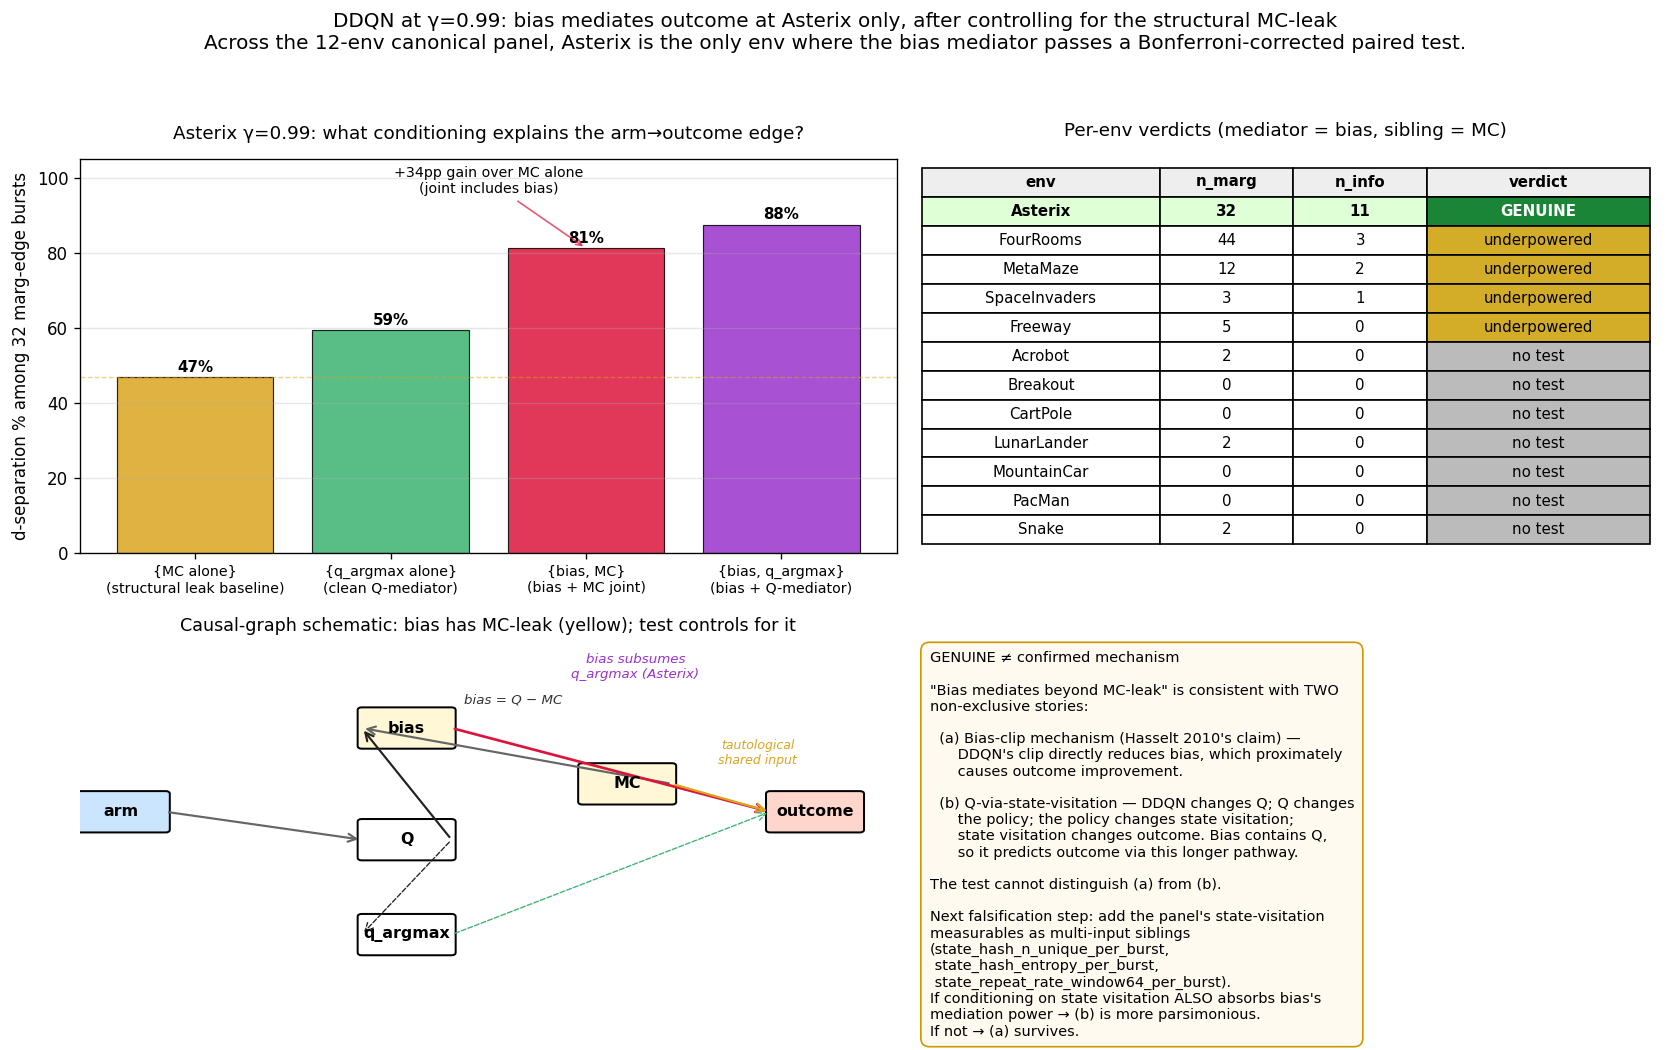
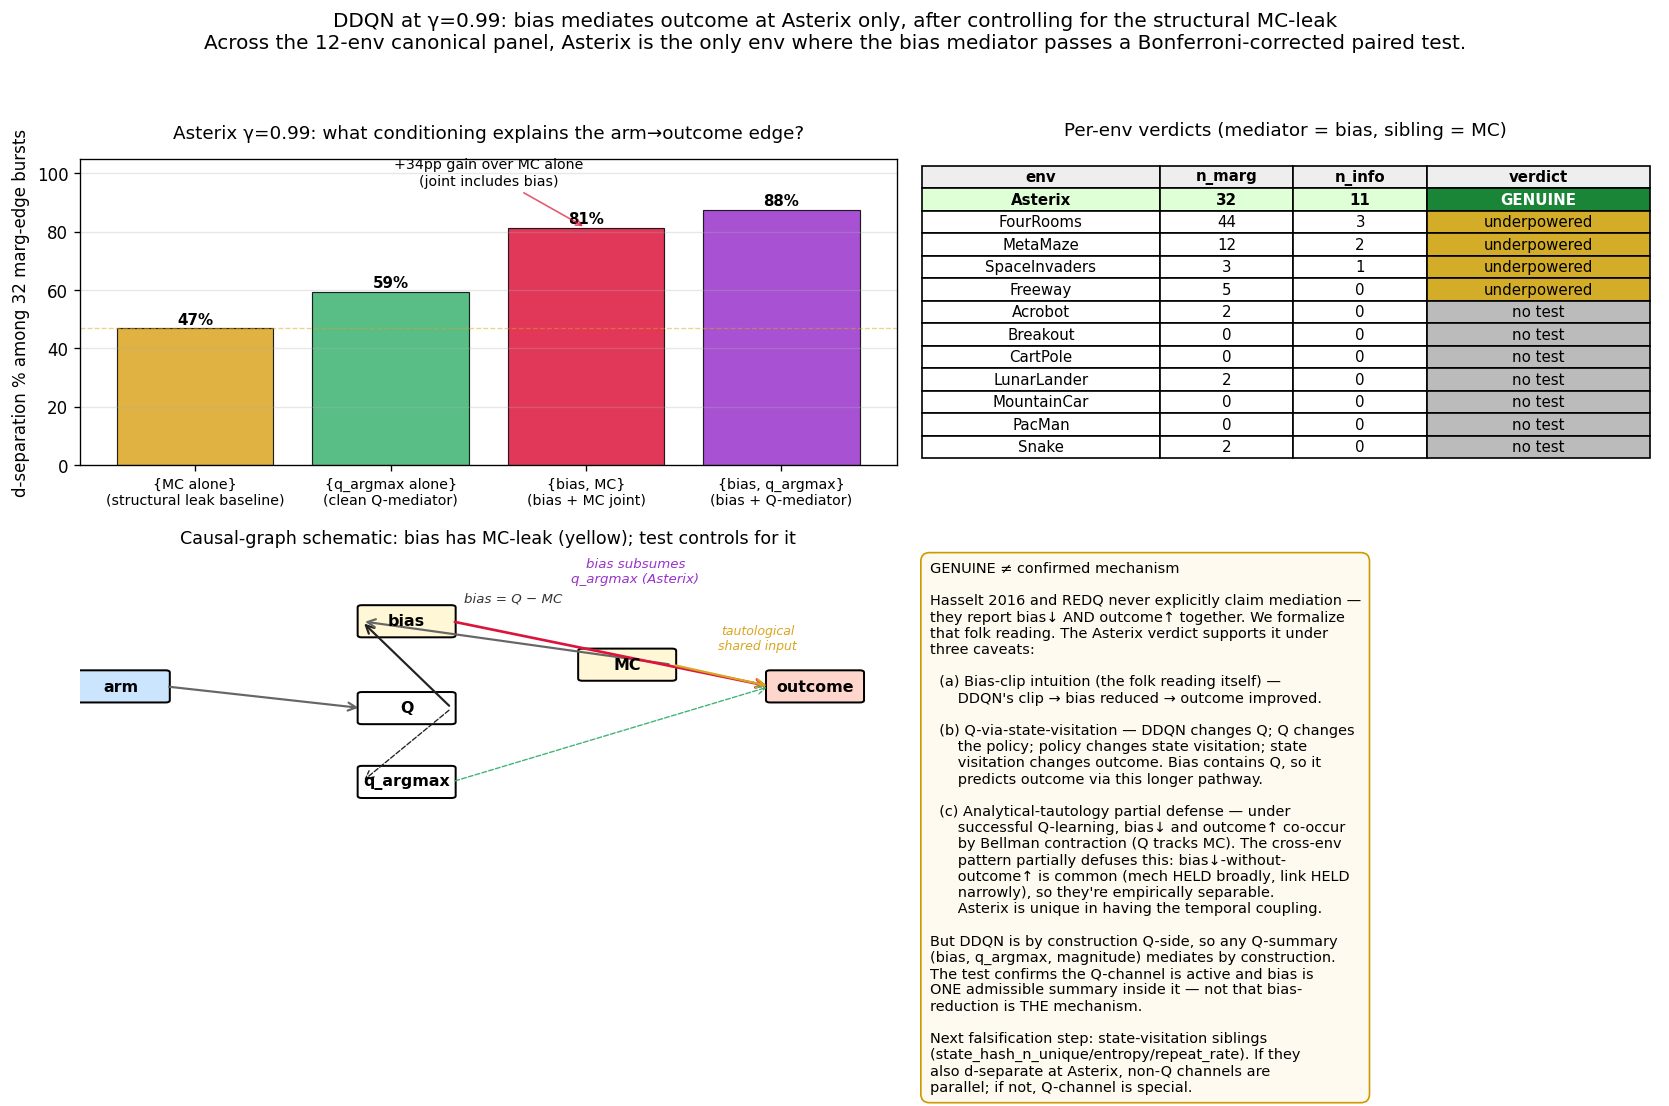
papers/g099_mediation: figure caveats box updated to match revised report framing.
The bottom-right caveats panel of the Asterix bias-adjudication
figure now mirrors the report's three honest framings:

  (a) Bias-clip intuition (the folk reading; Hasselt/REDQ never
      explicitly claim mediation themselves — they report bias↓
      and outcome↑ co-occurrence).
  (b) Q-via-state-visitation — DDQN modifies Q which modifies
      policy which modifies state visitation which modifies
      outcome.
  (c) Analytical-tautology partial defense — bias↓ and outcome↑
      co-occur by Bellman contraction; the cross-env empirical
      pattern (mech HELD broadly, link HELD narrowly) partially
      defuses the pure-tautology view; Asterix is unique in the
      temporal coupling.

Plus the "DDQN is by construction Q-side" closing observation:
the test confirms Q-channel is active and bias is one summary
inside it, not that bias-reduction is THE mechanism.

The figure now stands alongside the revised
bias_mediation_adjudicated.md as a self-contained visual companion
for a general RL audience — methodology in the discipline doc,
substantive caveats in the figure.

diff --git a/papers/g099_mediation/scripts/gen_asterix_bias_adjudication.py b/papers/g099_mediation/scripts/gen_asterix_bias_adjudication.py
@@ -214,24 +214,32 @@ def main() -> None:
     ax.axis('off')
     caveats = (
         'GENUINE ≠ confirmed mechanism\n\n'
-        '"Bias mediates beyond MC-leak" is consistent with TWO\n'
-        'non-exclusive stories:\n\n'
-        '  (a) Bias-clip mechanism (Hasselt 2010\'s claim) —\n'
-        '      DDQN\'s clip directly reduces bias, which proximately\n'
-        '      causes outcome improvement.\n\n'
+        'Hasselt 2016 and REDQ never explicitly claim mediation —\n'
+        'they report bias↓ AND outcome↑ together. We formalize\n'
+        'that folk reading. The Asterix verdict supports it under\n'
+        'three caveats:\n\n'
+        '  (a) Bias-clip intuition (the folk reading itself) —\n'
+        '      DDQN\'s clip → bias reduced → outcome improved.\n\n'
         '  (b) Q-via-state-visitation — DDQN changes Q; Q changes\n'
-        '      the policy; the policy changes state visitation;\n'
-        '      state visitation changes outcome. Bias contains Q,\n'
-        '      so it predicts outcome via this longer pathway.\n\n'
-        'The test cannot distinguish (a) from (b).\n\n'
-        'Next falsification step: add the panel\'s state-visitation\n'
-        'measurables as multi-input siblings\n'
-        '(state_hash_n_unique_per_burst,\n'
-        ' state_hash_entropy_per_burst,\n'
-        ' state_repeat_rate_window64_per_burst).\n'
-        'If conditioning on state visitation ALSO absorbs bias\'s\n'
-        'mediation power → (b) is more parsimonious.\n'
-        'If not → (a) survives.'
+        '      the policy; policy changes state visitation; state\n'
+        '      visitation changes outcome. Bias contains Q, so it\n'
+        '      predicts outcome via this longer pathway.\n\n'
+        '  (c) Analytical-tautology partial defense — under\n'
+        '      successful Q-learning, bias↓ and outcome↑ co-occur\n'
+        '      by Bellman contraction (Q tracks MC). The cross-env\n'
+        '      pattern partially defuses this: bias↓-without-\n'
+        '      outcome↑ is common (mech HELD broadly, link HELD\n'
+        '      narrowly), so they\'re empirically separable.\n'
+        '      Asterix is unique in having the temporal coupling.\n\n'
+        'But DDQN is by construction Q-side, so any Q-summary\n'
+        '(bias, q_argmax, magnitude) mediates by construction.\n'
+        'The test confirms the Q-channel is active and bias is\n'
+        'ONE admissible summary inside it — not that bias-\n'
+        'reduction is THE mechanism.\n\n'
+        'Next falsification step: state-visitation siblings\n'
+        '(state_hash_n_unique/entropy/repeat_rate). If they\n'
+        'also d-separate at Asterix, non-Q channels are\n'
+        'parallel; if not, Q-channel is special.'
     )
     ax.text(0.02, 0.98, caveats, transform=ax.transAxes,
             fontsize=8.7, verticalalignment='top', family='sans-serif',
